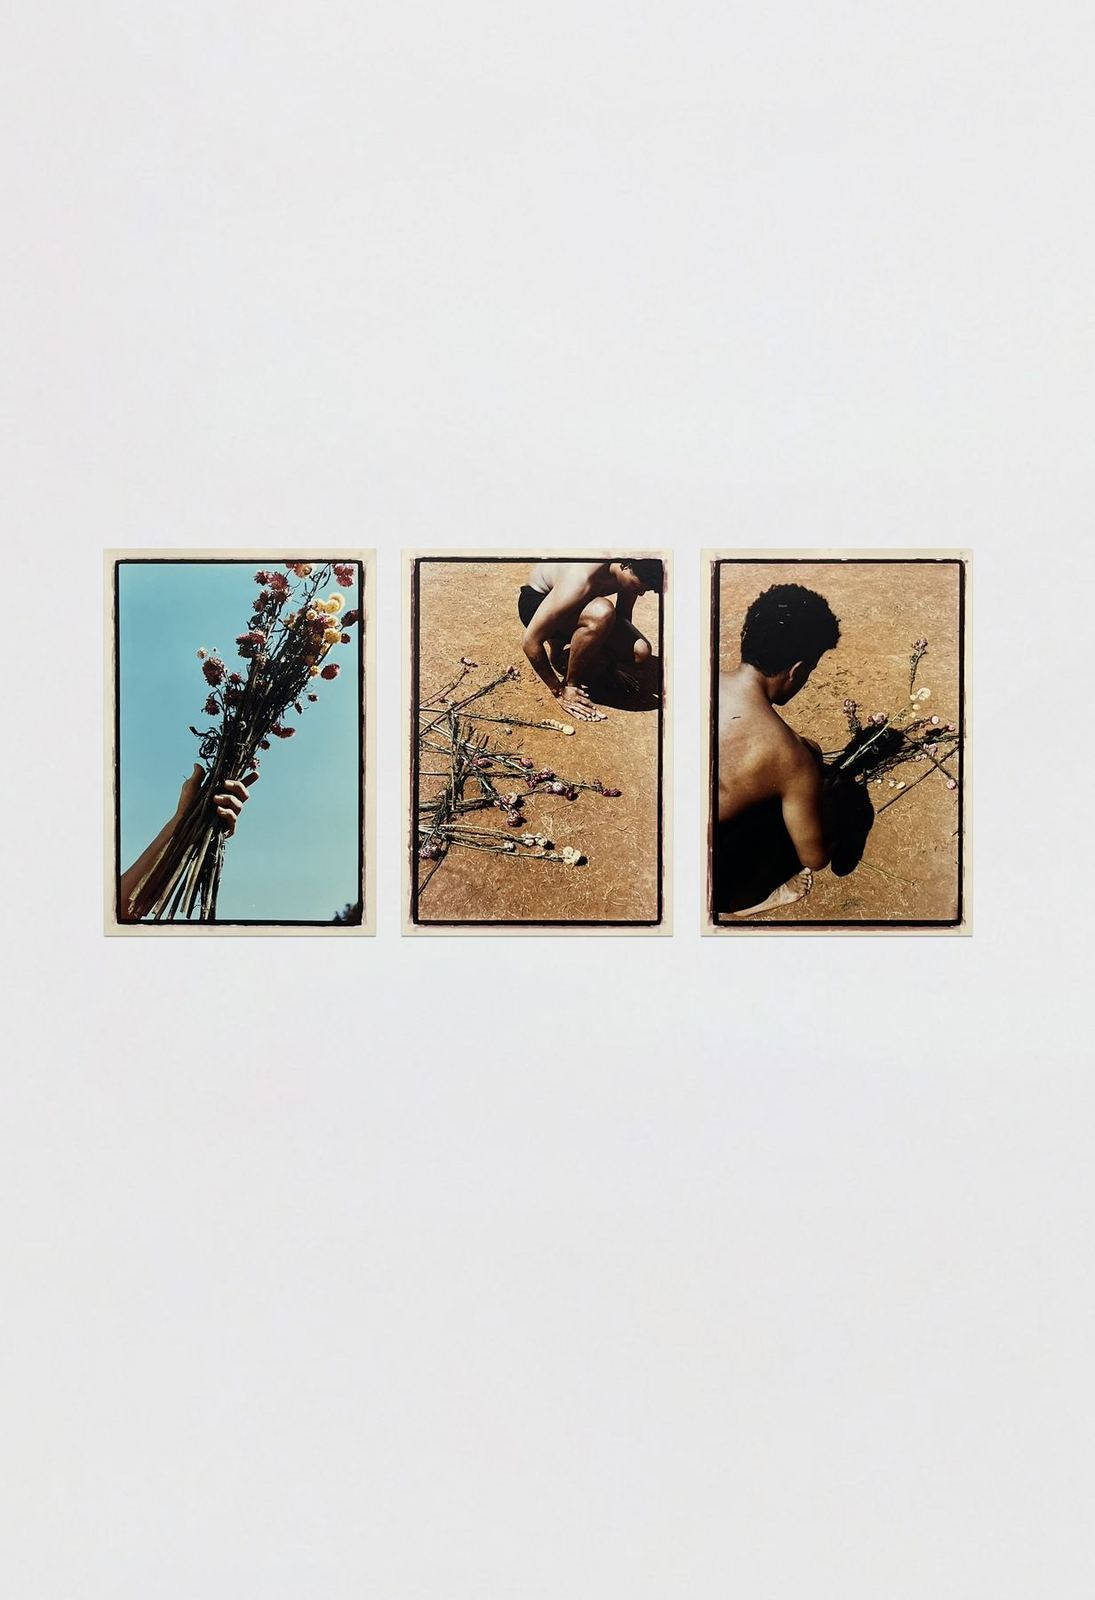
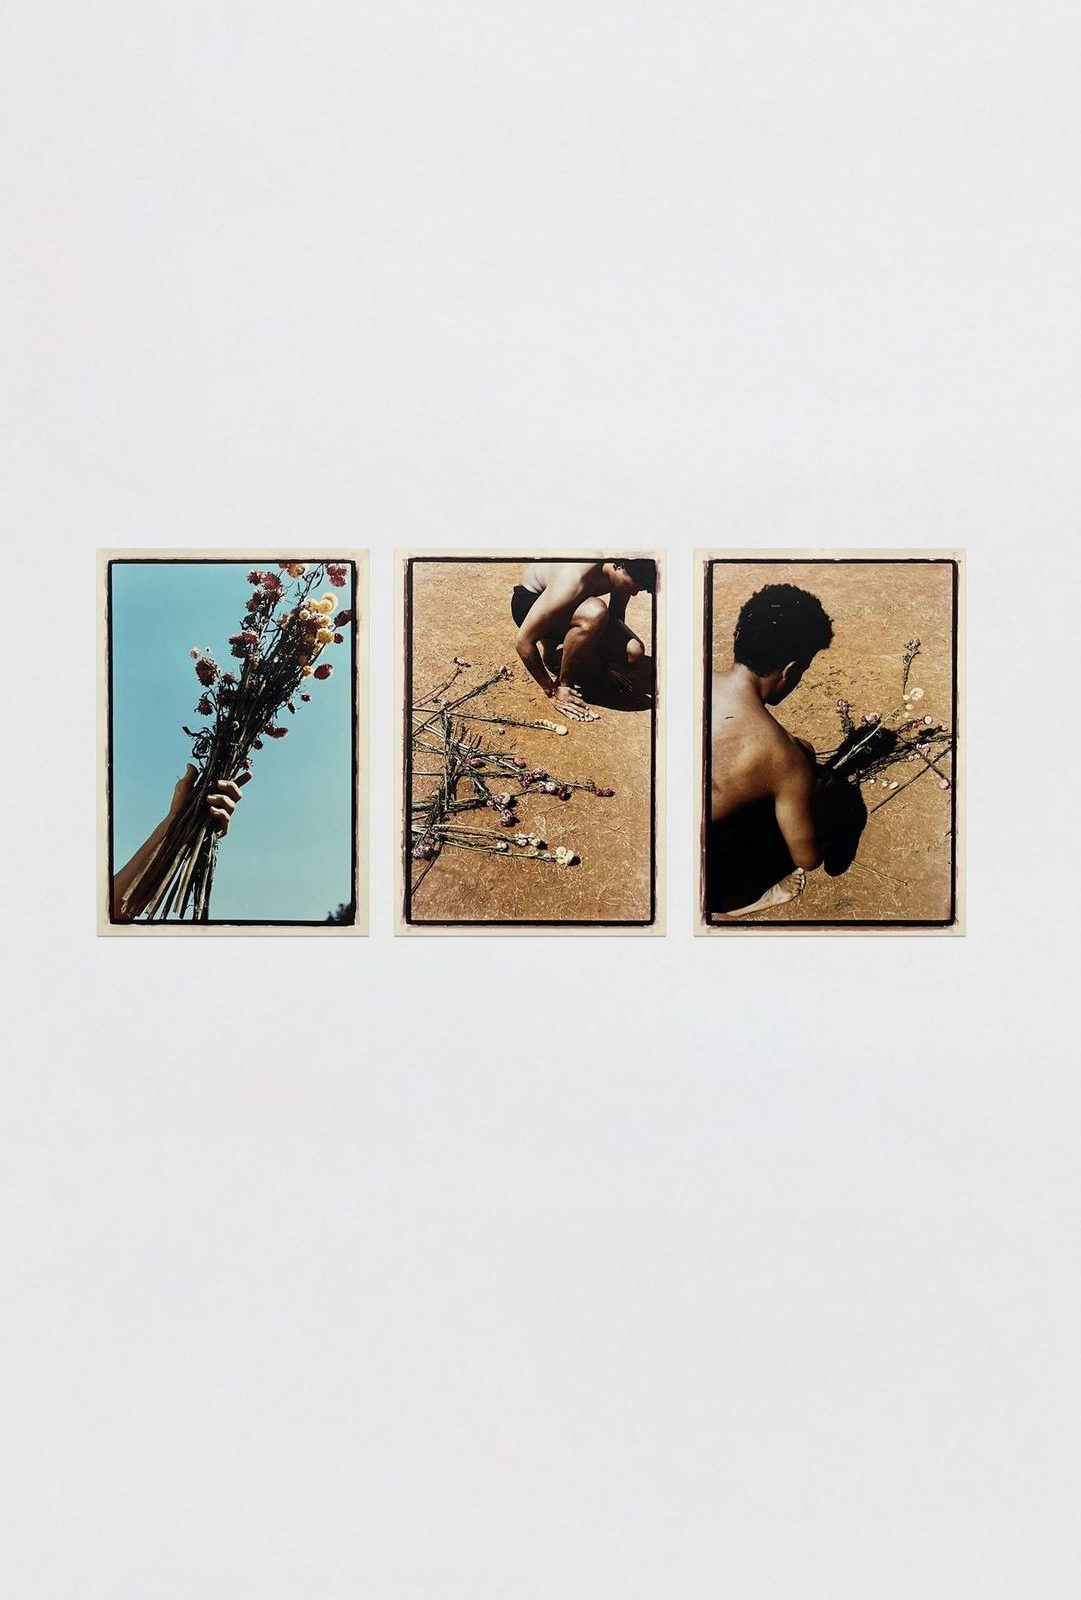
Caio Rosa: tríptico e foto ao lado com a mesma altura exata
Claude-Session: https://claude.ai/code/session_01FyrvPRKBLQQLEdiLrhE3dj

diff --git a/caiorosa/index.html b/caiorosa/index.html
@@ -145,7 +145,7 @@ figure>img{align-self:flex-start;height:auto}
 @media (min-width:821px){.pair.flush{column-gap:0;align-items:start}
 .pair.flush figure:first-child{grid-column:1 / span 6}
 .pair.flush figure:last-child{grid-column:7 / span 6}
-.pair.flush figure>img{width:100%}}
+.pair.flush figure>img{width:100%;aspect-ratio:1081/1600;object-fit:cover}}
 .pair figure:first-child{grid-column:1 / span 5}
 .pair figure:last-child{grid-column:7 / span 6}
 
@@ -610,7 +610,7 @@ body.on-c .review{bottom:calc(var(--fh,64px) + 8px)}
       <figcaption class="mono"><em>Sempre-Viva – Love Letter</em>, 2023<br>Fotoperformance</figcaption>
     </figure>
     <figure>
-      <img src="/caiorosa/img/r-poliptico.jpg" alt="Políptico de três fotografias" loading="lazy">
+      <img src="/caiorosa/img/r-poliptico.jpg?v=2" alt="Políptico de três fotografias" loading="lazy">
       <figcaption class="mono"><em>Sempre-Viva</em>, políptico<br>Fotografia analógica, ampliação manual<br>3 fotografias, 47 × 32 cm cada</figcaption>
     </figure>
   </section>
